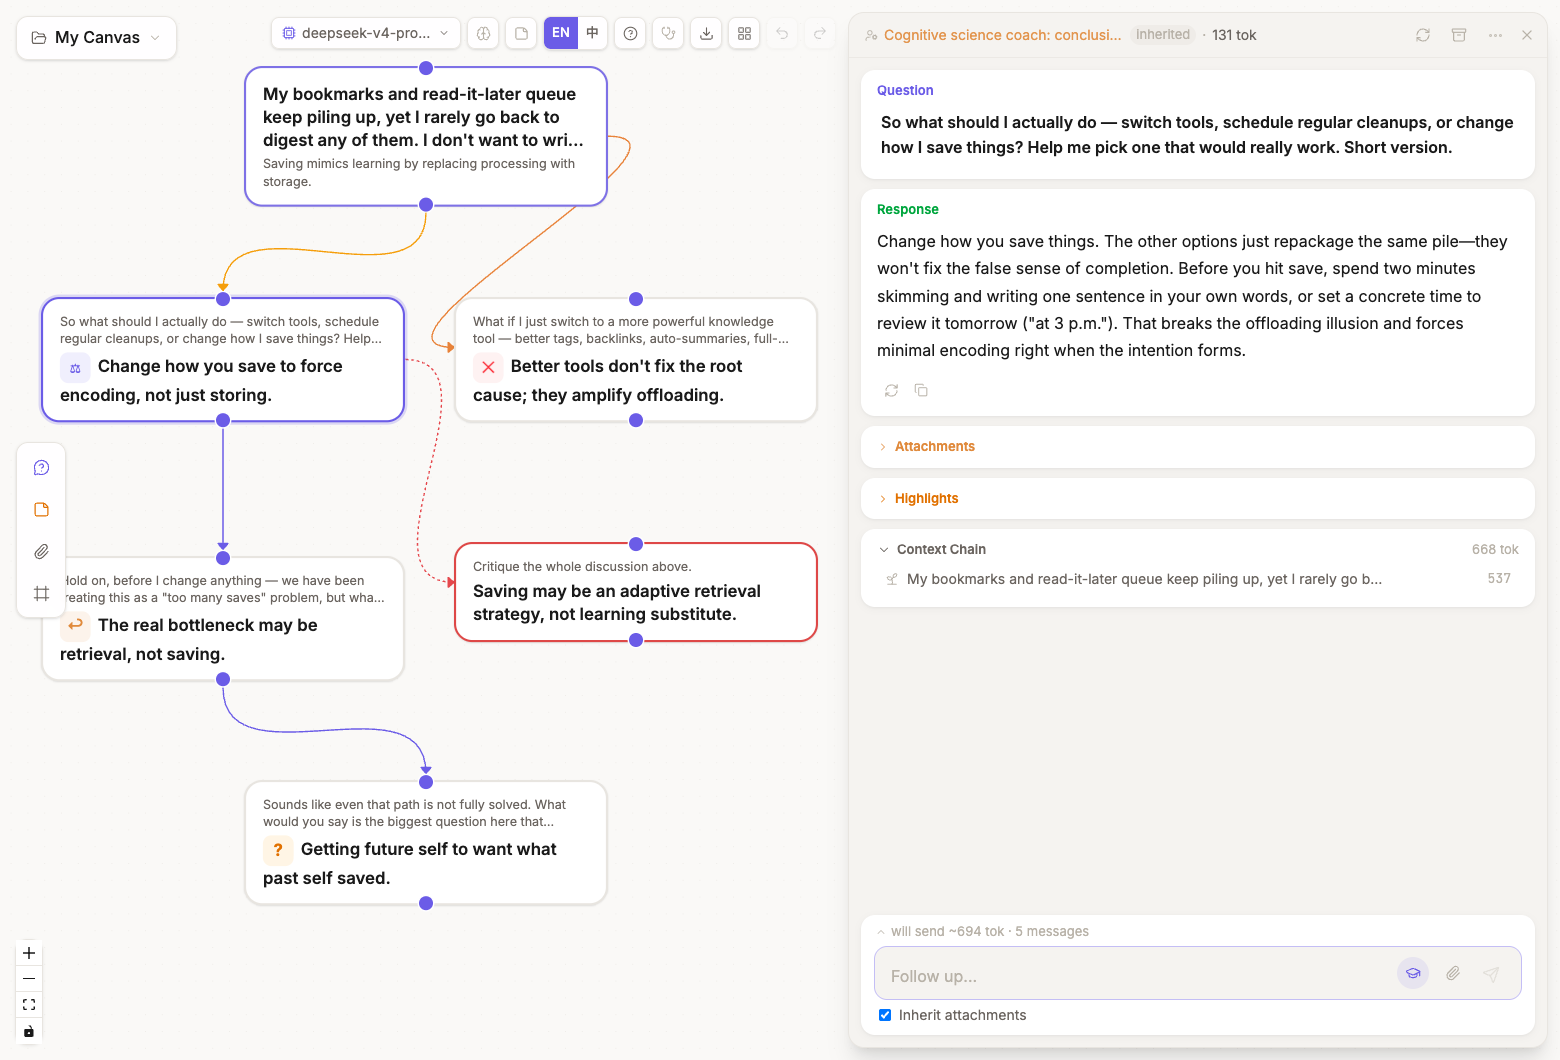
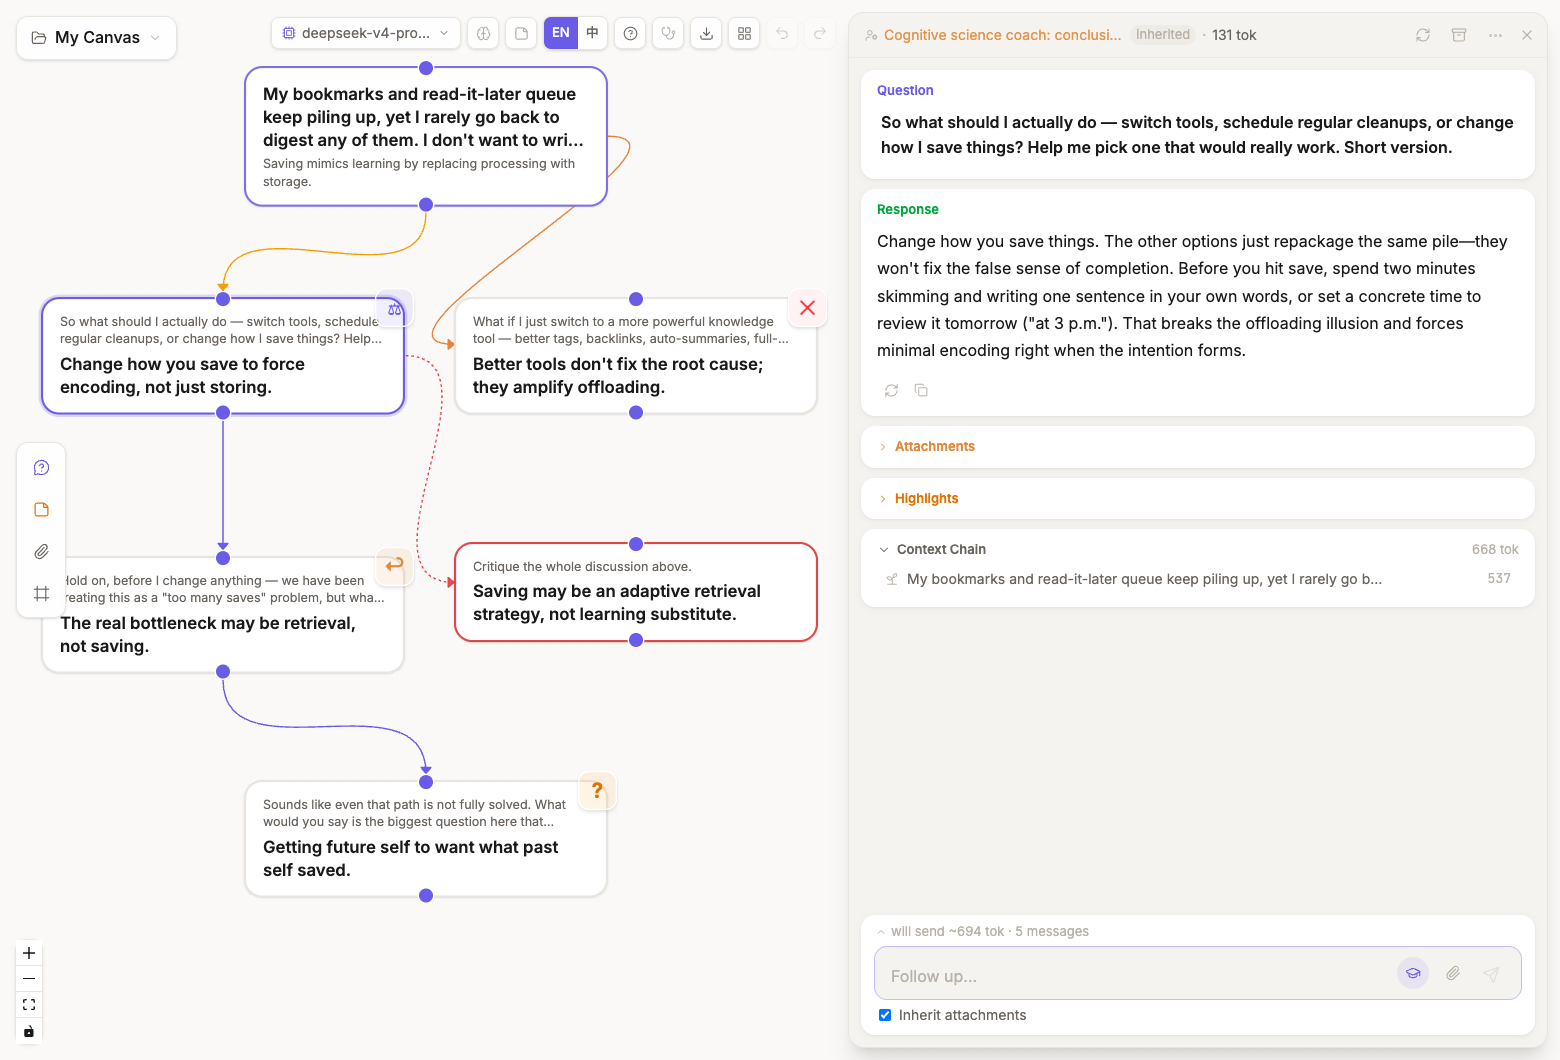
Map plaques: whole takeaways, corner-sealed badges
- The takeaway judge gets a hard length limit (48 chars CJK / 96 Latin,
  'must fit whole on a map plaque, never truncated') replacing the soft
  40-70 range that Chinese lines regularly blew past into ellipsis.
- The cognitive-move badge moves from inline-before-the-text to the
  plaque's top-right corner: 56px, floating out of the card with a card-
  colored ring and shadow — readable at map distance, and the takeaway
  line gets its full width back. The stale dot yields to the top-left.

diff --git a/src/components/ThoughtNode.tsx b/src/components/ThoughtNode.tsx
@@ -261,7 +261,18 @@ export default function ThoughtNode({ id, data }: NodeProps<ThoughtNodeType>) {
       <Handle type="target" position={Position.Left} id="left" isConnectable={false} className="!bg-transparent !w-0 !h-0 !border-0 !pointer-events-none" style={{ top: '40%' }} />
 
       {isStale && zoomedOut && (
-        <span className="absolute top-2.5 right-2.5 w-3.5 h-3.5 rounded-full bg-amber-500 z-10" title={t('node.staleBadge')} />
+        <span className="absolute top-2.5 left-2.5 w-3.5 h-3.5 rounded-full bg-amber-500 z-10" title={t('node.staleBadge')} />
+      )}
+      {zoomedOut && badge && (
+        // The cognitive move owns the plaque's top-right corner: big enough
+        // to read at map distance, floating out of the card like a seal
+        <span
+          title={t(badge.key as Parameters<typeof t>[0])}
+          className={`absolute -top-4 -right-4 w-14 h-14 rounded-2xl text-3xl font-bold flex items-center justify-center border-2 border-card shadow-md z-10 ${badge.cls}`}
+          data-map-badge
+        >
+          {badge.glyph}
+        </span>
       )}
       {zoomedOut ? (
         // Map label: the TAKEAWAY is the headline (what this step yielded),
@@ -278,11 +289,6 @@ export default function ThoughtNode({ id, data }: NodeProps<ThoughtNodeType>) {
                   {data.question}
                 </div>
                 <div className="text-lg text-ink-muted leading-snug line-clamp-2 mt-1.5">
-                  {badge && (
-                    <span title={t(badge.key as Parameters<typeof t>[0])} className={`inline-flex items-center justify-center w-8 h-8 rounded-lg text-lg font-bold mr-2 align-middle ${badge.cls}`}>
-                      {badge.glyph}
-                    </span>
-                  )}
                   {versionSummary || data.response.replace(/[#*`>-]/g, '').slice(0, 140)}
                 </div>
               </>
@@ -292,11 +298,6 @@ export default function ThoughtNode({ id, data }: NodeProps<ThoughtNodeType>) {
                   {data.question}
                 </div>
                 <div className="text-2xl font-semibold text-ink leading-snug line-clamp-3 mt-1.5">
-                  {badge && (
-                    <span title={t(badge.key as Parameters<typeof t>[0])} className={`inline-flex items-center justify-center w-11 h-11 rounded-xl text-2xl font-bold mr-2.5 align-middle ${badge.cls}`}>
-                      {badge.glyph}
-                    </span>
-                  )}
                   {versionSummary || data.response.replace(/[#*`>-]/g, '').slice(0, 140)}
                 </div>
               </>

diff --git a/src/store/streaming.ts b/src/store/streaming.ts
@@ -27,7 +27,7 @@ export function generateSummary(nodeId: string, question: string, response: stri
   llmCall([
     { role: 'user', content: question },
     { role: 'assistant', content: response },
-    { role: 'user', content: `${mapBlock}Write the TAKEAWAY of the above exchange as one line, 40-70 characters: conclusion first. A reader scanning a map of many such lines should see how the thinking progressed. Same language as the question. Classify the epistemic move and prefix the line with exactly one tag: INSIGHT (learned or confirmed something), RULEOUT (killed a hypothesis or option), DECISION (chose among options), PIVOT (reframed the question or direction), OPEN (raised a new unresolved question). Most exchanges are INSIGHT. Format: TAG: takeaway text. Output only that line.` },
+    { role: 'user', content: `${mapBlock}Write the TAKEAWAY of the above exchange as ONE short line, conclusion first. Hard length limit: at most 48 characters for CJK languages, at most 96 characters otherwise — the line must fit whole on a small map plaque, never truncated. A reader scanning a map of many such lines should see how the thinking progressed. Same language as the question. Classify the epistemic move and prefix the line with exactly one tag: INSIGHT (learned or confirmed something), RULEOUT (killed a hypothesis or option), DECISION (chose among options), PIVOT (reframed the question or direction), OPEN (raised a new unresolved question). Most exchanges are INSIGHT. Format: TAG: takeaway text. Output only that line.` },
   ]).then((raw) => {
     // "TAG: text" — unknown/missing tags degrade to the unmarked default
     const m = raw.trim().match(/^(INSIGHT|RULEOUT|DECISION|PIVOT|OPEN)[:：]\s*(.+)$/is);
